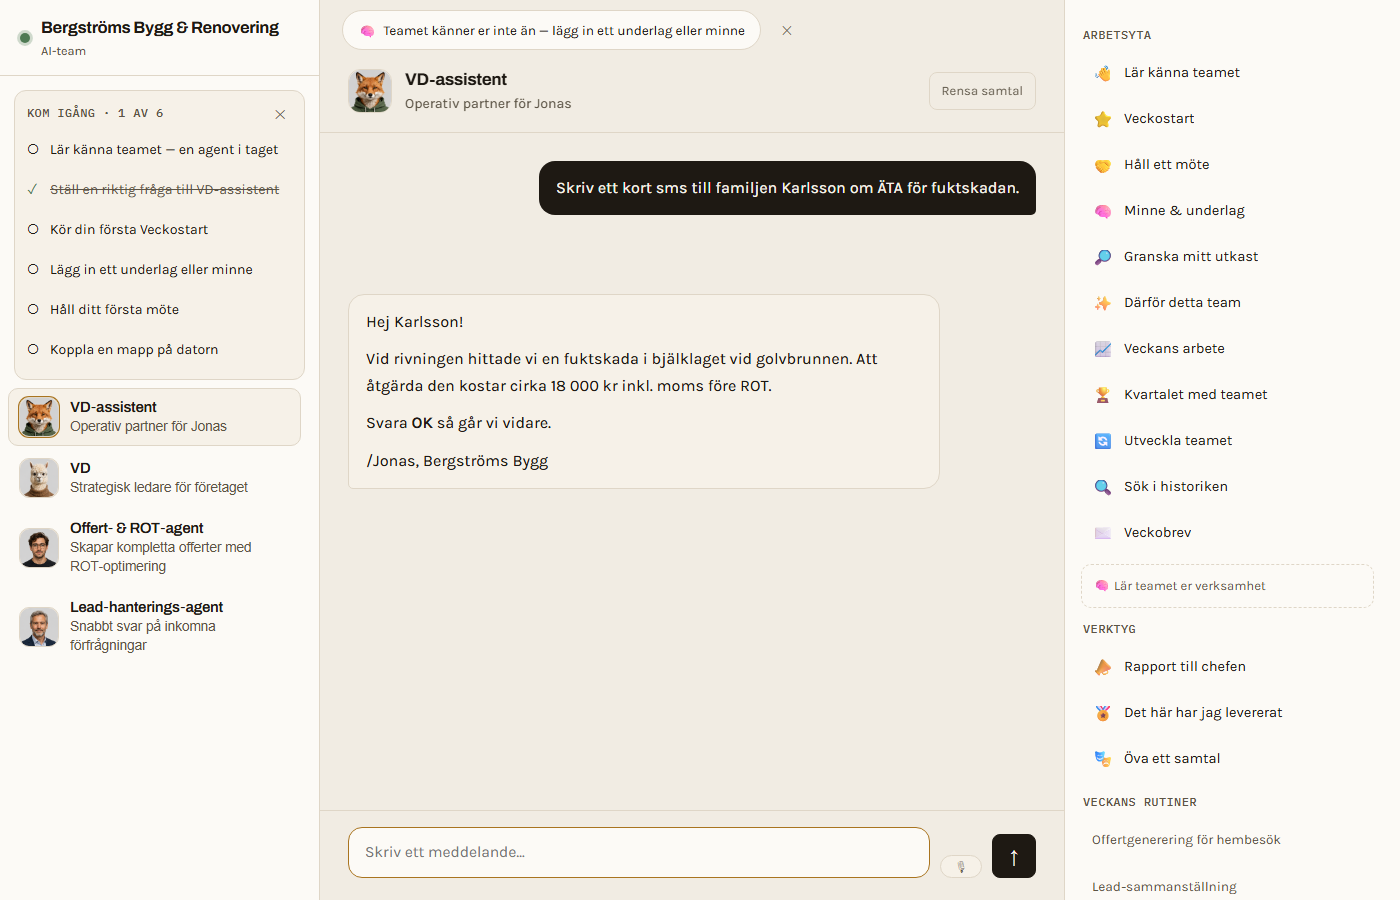
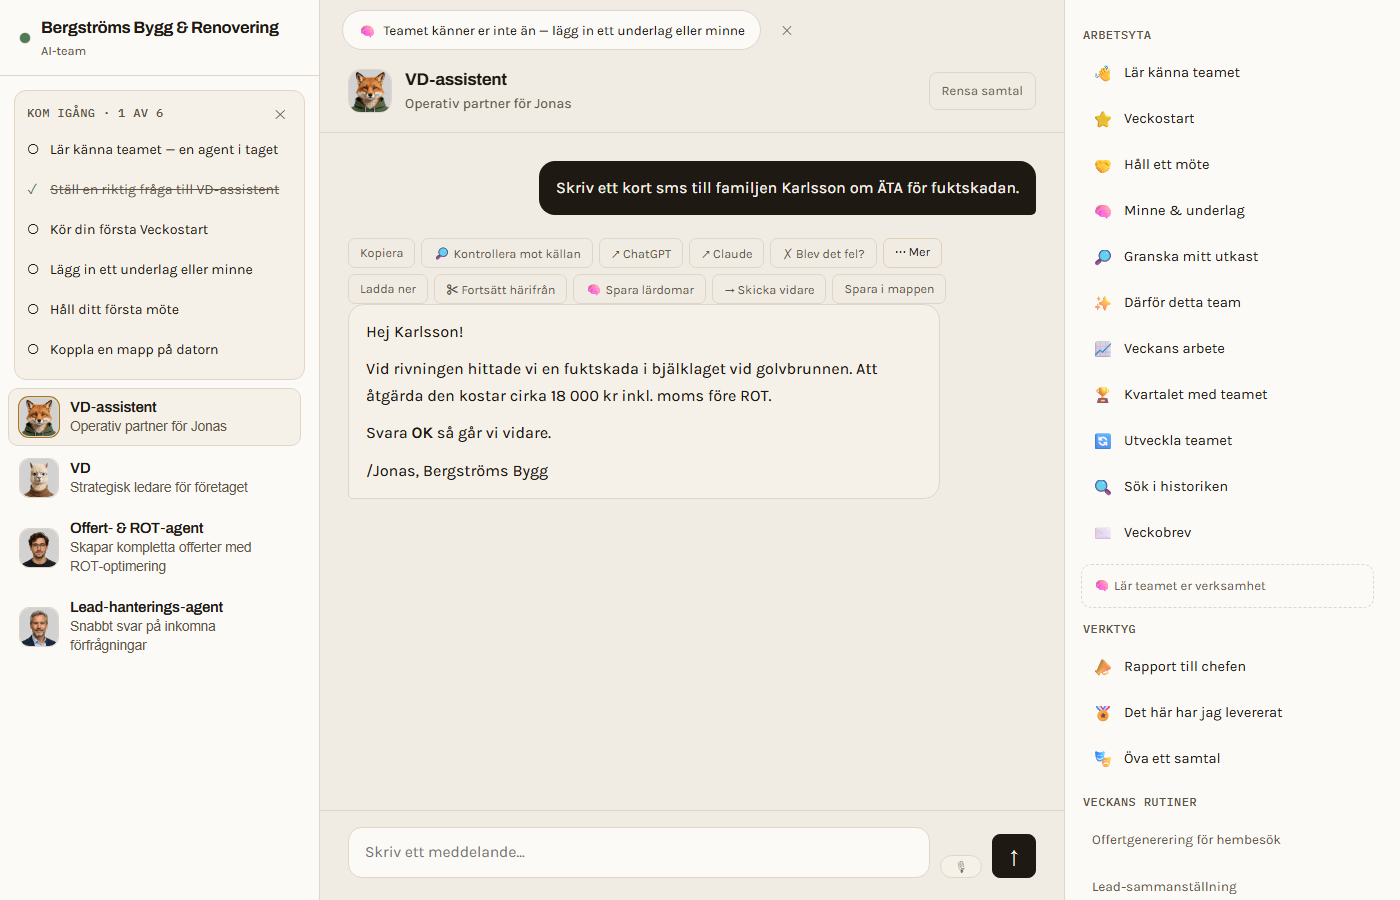
Portalen: svarsknapparna under det sparade svaret, inte ovanfor (syntes i skarmbild)

Changed region(s): [[0.2457, 0.28, 0.6757, 0.56]]

diff --git a/portal/app.js b/portal/app.js
@@ -1900,6 +1900,11 @@ function bubble(role, text, msg) {
   if (role === "assistant") {
     b.setAttribute("aria-label", "Svar");
     renderMarkdown(b, text); // agenterna svarar med rubriker/listor/fetstil
+    // Bubblan FÖRST, knapparna under den. Ordningen var omvänd fram till
+    // 2026-09-26: på dator doldes det (knapparna syns bara vid hovring), men
+    // på mobil stod knapparna ovanför varje sparat svar. Syntes först i en
+    // skärmbild — inte vid läsning av koden.
+    row.appendChild(b);
     if (text) addActions(row, () => text); // färdiga svar får kopiera/ladda ner
     // Mötesanteckningar bär deltagarnas oberoende perspektiv — produktens
     // bevis för att mötet inte är en modell som lajvar roller. Visa dem.
@@ -1909,8 +1914,8 @@ function bubble(role, text, msg) {
     // submitMessage(). Faller alltid tillbaka på den skickade texten, så
     // vanliga meddelanden och äldre historik ser ut precis som förut.
     b.textContent = (msg && msg.display) || text;
+    row.appendChild(b);
   }
-  row.appendChild(b);
   return row;
 }
 
